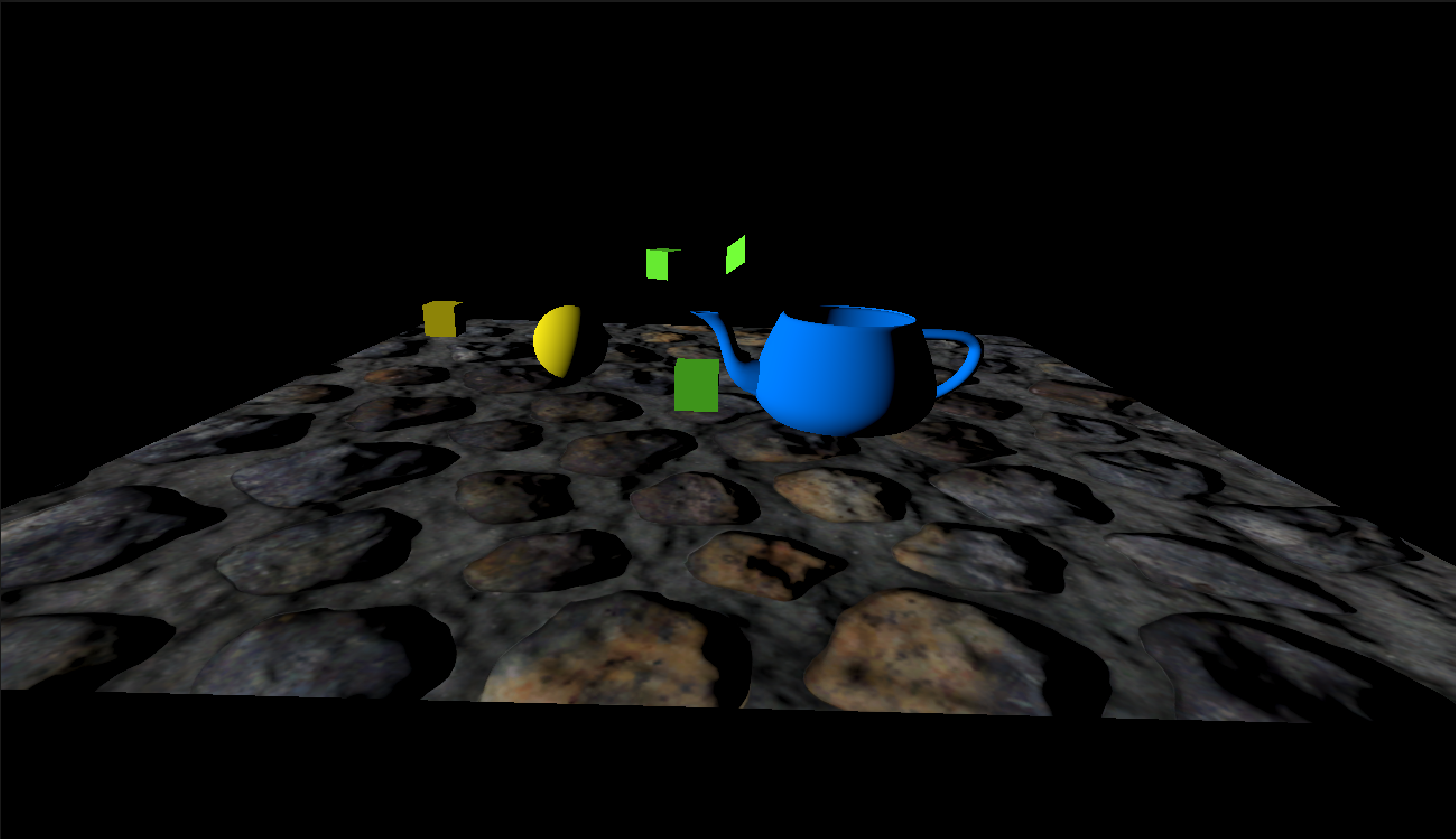
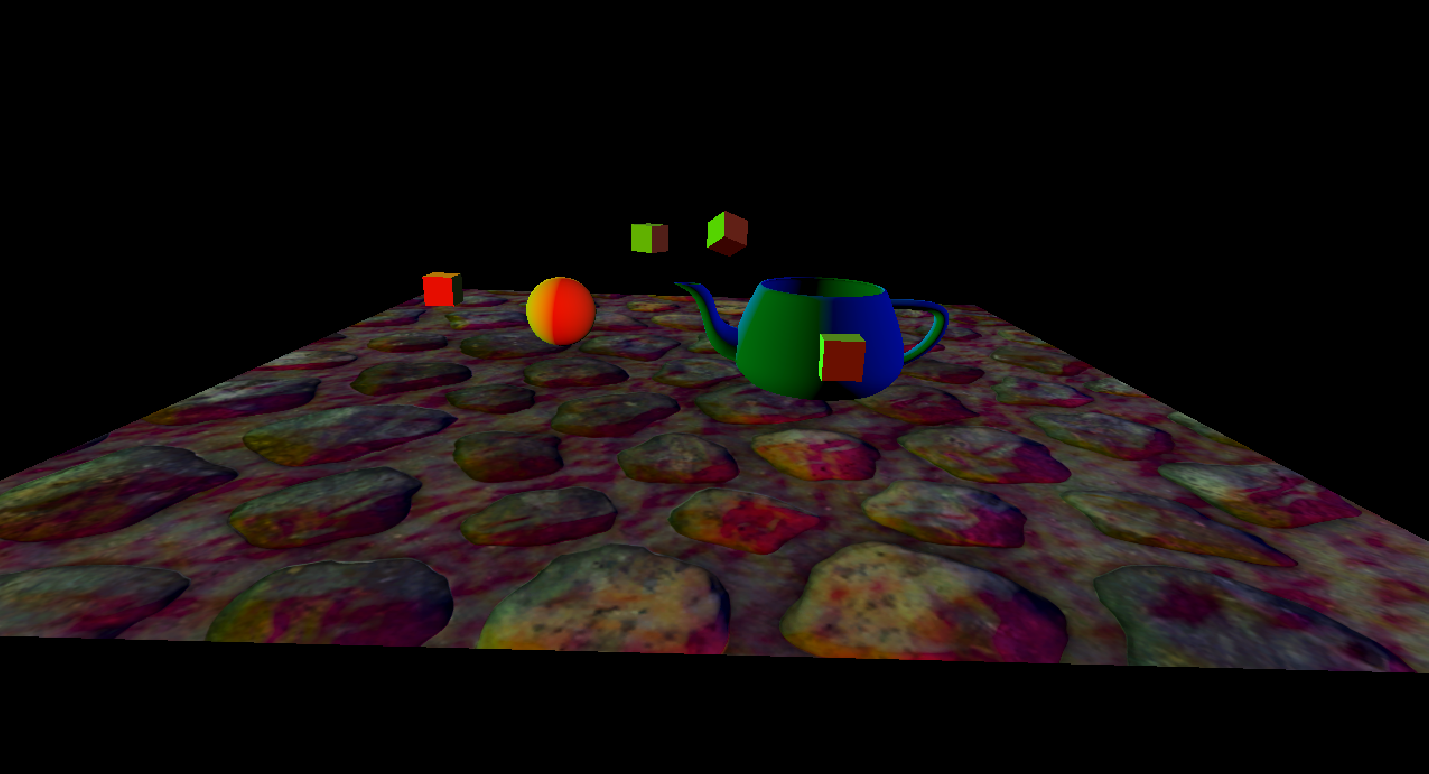
Add support for unity directional lights

Changed region(s): [[0.0, 0.3411, 1.0, 0.8682], [0.4311, 0.2791, 0.5234, 0.3411]]

diff --git a/Demo Project/Assets/Custom RP/Runtime/CustomRPLighting.cs b/Demo Project/Assets/Custom RP/Runtime/CustomRPLighting.cs
@@ -1,0 +1,66 @@
+using UnityEngine;
+using UnityEngine.Rendering;
+using Unity.Collections;
+
+public class Lighting
+{
+    const string bufferName = "Lighting";
+    const int maxDirLightCount = 4;
+    const int maxOtherLightCount = 64;
+
+    CullingResults cullingResults;
+
+    CommandBuffer buffer = new CommandBuffer { name = bufferName };
+
+    static int dirLightCountId = Shader.PropertyToID("_DirectionalLightCount");
+    static int dirLightColoursId = Shader.PropertyToID("_DirectionalLightColors");
+    static int dirLightDirectionsId = Shader.PropertyToID("_DirectionalLightDirections");
+
+    static Vector4[] dirLightColours = new Vector4[maxDirLightCount];
+    static Vector4[] dirLightDirections = new Vector4[maxDirLightCount];
+
+    public void Setup(ScriptableRenderContext context, CullingResults cullingResults)
+    {
+        this.cullingResults = cullingResults;
+
+        SetupLights();
+        context.ExecuteCommandBuffer(buffer);
+        buffer.Clear();
+    }
+
+    void SetupDirectionalLight(int index, int visibleIndex, ref VisibleLight visibleLight)
+    {
+        dirLightColours[index] = visibleLight.finalColor;
+        dirLightDirections[index] = -visibleLight.localToWorldMatrix.GetColumn(2);
+    }
+
+    void SetupLights()
+    {
+        NativeArray<VisibleLight> visibleLights = cullingResults.visibleLights;
+
+        int dirLightCount = 0;
+
+        for (int i = 0; i < visibleLights.Length; i++)
+        {
+            VisibleLight visibleLight = visibleLights[i];
+
+            switch (visibleLight.lightType)
+            {
+                case LightType.Directional:
+                    if (dirLightCount < maxDirLightCount)
+                    {
+                        SetupDirectionalLight(dirLightCount++, i, ref visibleLight);
+                    }
+                    break;
+            }
+        }
+
+        buffer.SetGlobalInt(dirLightCountId, dirLightCount);
+
+        if (dirLightCount > 0)
+        {
+            buffer.SetGlobalVectorArray(dirLightColoursId, dirLightColours);
+            buffer.SetGlobalVectorArray(dirLightDirectionsId, dirLightDirections);
+        }
+    }
+}

diff --git a/Demo Project/Assets/Custom RP/Runtime/CustomRP.cs b/Demo Project/Assets/Custom RP/Runtime/CustomRP.cs
@@ -41,6 +41,8 @@ public class CamRenderer
 
     public Material material = new Material(CustomRP.deferredShader);
 
+    Lighting lighting = new Lighting();
+
     public void Render (ScriptableRenderContext context, Camera camera)
     {
         this.context = context;
@@ -49,6 +51,8 @@ public class CamRenderer
         // If there are no vertices within the culling volume, stop the rendering process.
         if (!Cull())
             return;
+
+        lighting.Setup(context, cullingResults);
 
         Setup();
         DrawGeometry();  

diff --git a/Demo Project/Assets/Custom RP/Runtime/CustomRPBuffers.cs b/Demo Project/Assets/Custom RP/Runtime/CustomRPBuffers.cs
@@ -94,4 +94,3 @@ public class GeometryBuffer
         ExecuteBuffer();
     }
 }
-
